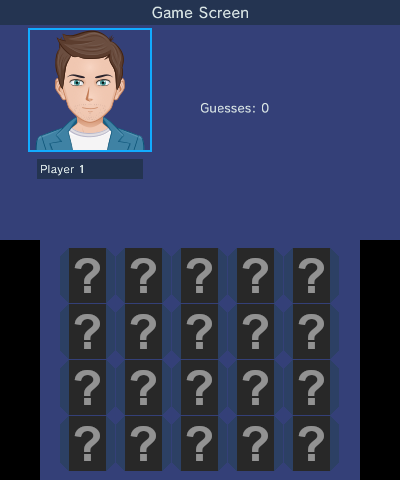
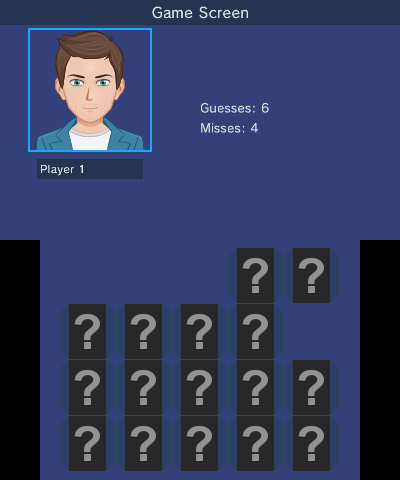
Implement the Misses / Guesses code side.

diff --git a/3ds/source/GameHelper.cpp b/3ds/source/GameHelper.cpp
@@ -105,10 +105,11 @@ void GameHelper::DrawTryPlay(void) const {
 		Gui::DrawString(40, 162, 0.45f, TEXT_WHITE, this->Params.Names[0], 100);
 	}
 
-	Gui::DrawString(200, 100, 0.5f, TEXT_WHITE, Lang::Get("GAME_SCREEN_TRIES") + std::to_string(this->Params.Tries), 200);
+	Gui::DrawString(200, 100, 0.5f, TEXT_WHITE, Lang::Get("GAME_SCREEN_TRIES") + std::to_string(this->Params.Guesses[0]), 200);
+	Gui::DrawString(200, 120, 0.5f, TEXT_WHITE, Lang::Get("GAME_SCREEN_MISSES") + std::to_string(this->Params.Guesses[1]), 200);
 
 	if (this->Game->GetPairs() > 10) { // Only 11+ Pairs have pages.
-		Gui::DrawString(180, 130, 0.5f, TEXT_WHITE, Lang::Get("GAME_SCREEN_CURRENT_PAGE") + std::to_string(this->Page + 1) + " / " + std::to_string((this->Game->GetPairs() + 9) * 2 / 20), 200);
+		Gui::DrawString(180, 150, 0.5f, TEXT_WHITE, Lang::Get("GAME_SCREEN_CURRENT_PAGE") + std::to_string(this->Page + 1) + " / " + std::to_string((this->Game->GetPairs() + 9) * 2 / 20), 200);
 	};
 
 	if (!this->Params.CardDelayUsed || this->Params.CardDelay == 0) { // The checks only exist on non delay mode.
@@ -1218,9 +1219,9 @@ GameHelper::LogicState GameHelper::TurnChecks() {
 		this->HideAnimation();
 		this->Game->ResetTurn(false); // Hide cards, reset state.
 
-		/* At this point, we need to make an exception for Try and Normal Mode. */
-		if (this->Params.GameMode == GameSettings::GameModes::Solo) { // Try Mode.
-			this->Params.Tries++; // Increase the Tries.
+		/* At this point, we need to make an exception for Solo and Versus Mode. */
+		if (this->Params.GameMode == GameSettings::GameModes::Solo) { // Solo Mode.
+			this->Params.Guesses[1]++; // Increase the missed guesses.
 			this->Game->SetState(StackMem::TurnState::DrawFirst); // Set first State again.
 
 		} else { // Normal Mode.
@@ -1228,6 +1229,7 @@ GameHelper::LogicState GameHelper::TurnChecks() {
 		}
 	}
 
+	if (this->Params.GameMode == GameSettings::GameModes::Solo) this->Params.Guesses[0]++; // Increase the total guesses.
 	this->RefreshFrame = true; // Refresh frame.
 	return GameHelper::LogicState::Nothing; // Nothing special.
 };

diff --git a/3ds/source/Overlays/Game/GameResult.cpp b/3ds/source/Overlays/Game/GameResult.cpp
@@ -179,7 +179,9 @@ void GameResult::DrawSolo(const GameSettings::GameParams &Params) {
 	}
 
 	Gui::DrawString(220, 80 - this->Delay, 0.45f, TEXT_WHITE, Lang::Get("PAIRS") + std::to_string(Params.PlayerPairs[0]), 150);
-	Gui::DrawString(220, 100 + this->Delay, 0.45f, TEXT_WHITE, Lang::Get("YOUR_TRIES") + std::to_string(Params.Tries), 100);
+	Gui::DrawString(220, 100 + this->Delay, 0.45f, TEXT_WHITE, Lang::Get("YOUR_TRIES") + std::to_string(Params.Guesses[0]), 100);
+	Gui::DrawString(220, 120 + this->Delay, 0.45f, TEXT_WHITE, Lang::Get("YOUR_MISSES") + std::to_string(Params.Guesses[1]), 100);
+
 
 	if (_3DZwei::CFG->DoAnimation() && _3DZwei::CFG->DoFade()) {
 		if (this->Delay > 0) Gui::Draw_Rect(0, 0, 400, 240, C2D_Color32(0, 0, 0, this->Delay));

diff --git a/3ds/include/Overlays/Game/GameSettings.hpp b/3ds/include/Overlays/Game/GameSettings.hpp
@@ -49,7 +49,7 @@ public:
 		GameSettings::GameModes GameMode = GameSettings::GameModes::Versus; // Game Mode.
 		uint8_t Wins[2] = { 0, 0 }; // Wins of both players.
 		size_t PlayerPairs[2] = { 0, 0 }; // Player Pairs for both players.
-		size_t Tries = 0; // Amount of tries.
+		size_t Guesses[2] = { 0, 0 }; // Amount of guesses.
 		RoundStarter Starter = RoundStarter::Player1; // The Round Starter of the game.
 		bool CancelGame = false; // If Game should be cancelled or not.
 	};

diff --git a/README.md b/README.md
@@ -42,7 +42,7 @@ This is a more improved version of the Hard Method. It already does the thing wh
 ![](https://github.com/Universal-Team/3DZwei/blob/master/resources/screenshots/creditsContributors.png) ![](https://github.com/Universal-Team/3DZwei/blob/master/resources/screenshots/creditsStackMemCore.png) ![](https://github.com/Universal-Team/3DZwei/blob/master/resources/screenshots/creditsUniversalCore.png) ![](https://github.com/Universal-Team/3DZwei/blob/master/resources/screenshots/creditsTranslators1.png) ![](https://github.com/Universal-Team/3DZwei/blob/master/resources/screenshots/creditsTranslators2.png) ![](https://github.com/Universal-Team/3DZwei/blob/master/resources/screenshots/creditsTranslators3.png) ![](https://github.com/Universal-Team/3DZwei/blob/master/resources/screenshots/creditsSpecialThanks.png)
 
 ### Game Result
-![](https://github.com/Universal-Team/3DZwei/blob/master/resources/screenshots/roundResult.png) ![](https://github.com/Universal-Team/3DZwei/blob/master/resources/screenshots/gameResult.png)
+![](https://github.com/Universal-Team/3DZwei/blob/master/resources/screenshots/roundResult.png) ![](https://github.com/Universal-Team/3DZwei/blob/master/resources/screenshots/gameResultSolo.png) ![](https://github.com/Universal-Team/3DZwei/blob/master/resources/screenshots/gameResult.png)
 
 ### Game Screen
 ![](https://github.com/Universal-Team/3DZwei/blob/master/resources/screenshots/gameScreenVersus.png) ![](https://github.com/Universal-Team/3DZwei/blob/master/resources/screenshots/gameScreenSolo.png) ![](https://github.com/Universal-Team/3DZwei/blob/master/resources/screenshots/gameQuitPrompt.png)
